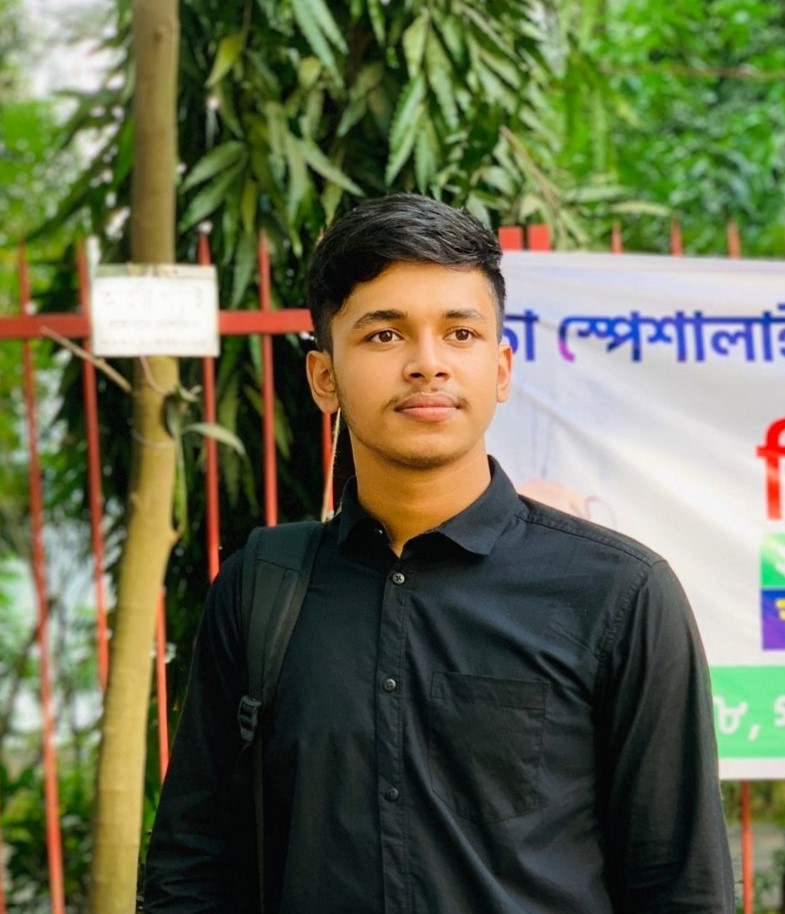
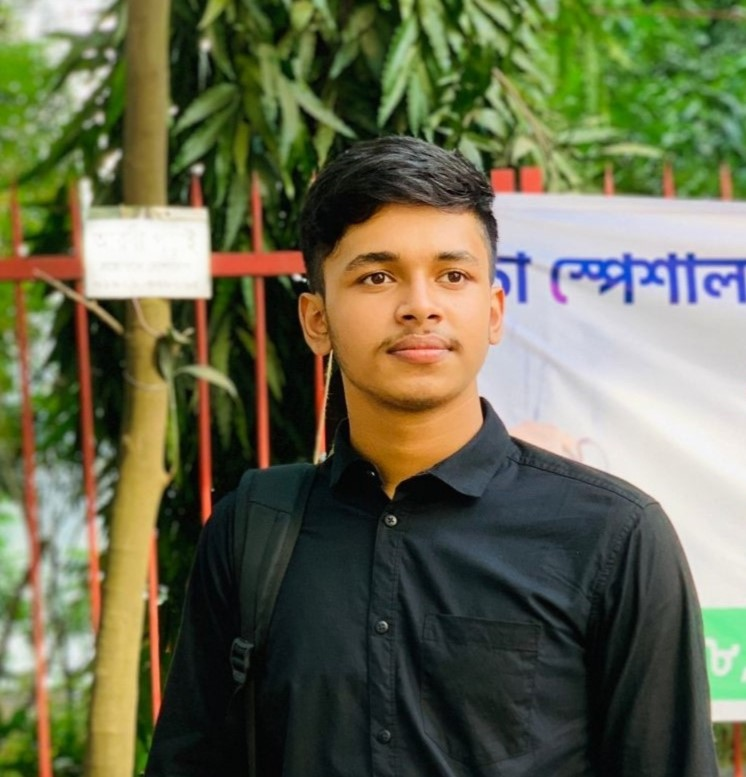
about me part done

diff --git a/src/index.css b/src/index.css
@@ -210,8 +210,8 @@ nav a:hover {
 }
 .about-img {
   position: relative;
-  width: 23rem;
-  height: 23rem;
+  width: 19rem;
+  height: 19rem;
   border-radius: 50%;
   display: flex;
   align-items: center;
@@ -220,6 +220,34 @@ nav a:hover {
 .about-img img {
   border: 0.2rem solid var(--main-color);
   border-radius: 50%;
+  width: 90%;
+}
+.about-img .circle-spin {
+  position: absolute;
+  top: 50%;
+  left: 50%;
   width: 100%;
+  transform: translate(-50%, -50%) rotate(0);
   height: 100%;
+  border-radius: 50%;
+  border-left: 0.2rem solid var(--main-color);
+  border-right: 0.2rem solid var(--main-color);
+  border-top: 0.2rem solid var(--second-bg-color);
+  border-bottom: 0.2rem solid var(--second-bg-color);
+}
+.about-content {
+  text-align: center;
+}
+.about-content h2 {
+  font-size: 2.5rem;
+}
+.about-content p {
+  font-size: 1.1rem;
+}
+.btn-box.buttons {
+  display: inline-block;
+  width: 15rem;
+}
+.btn-box.buttons a::before {
+  background: var(--second-bg-color);
 }
